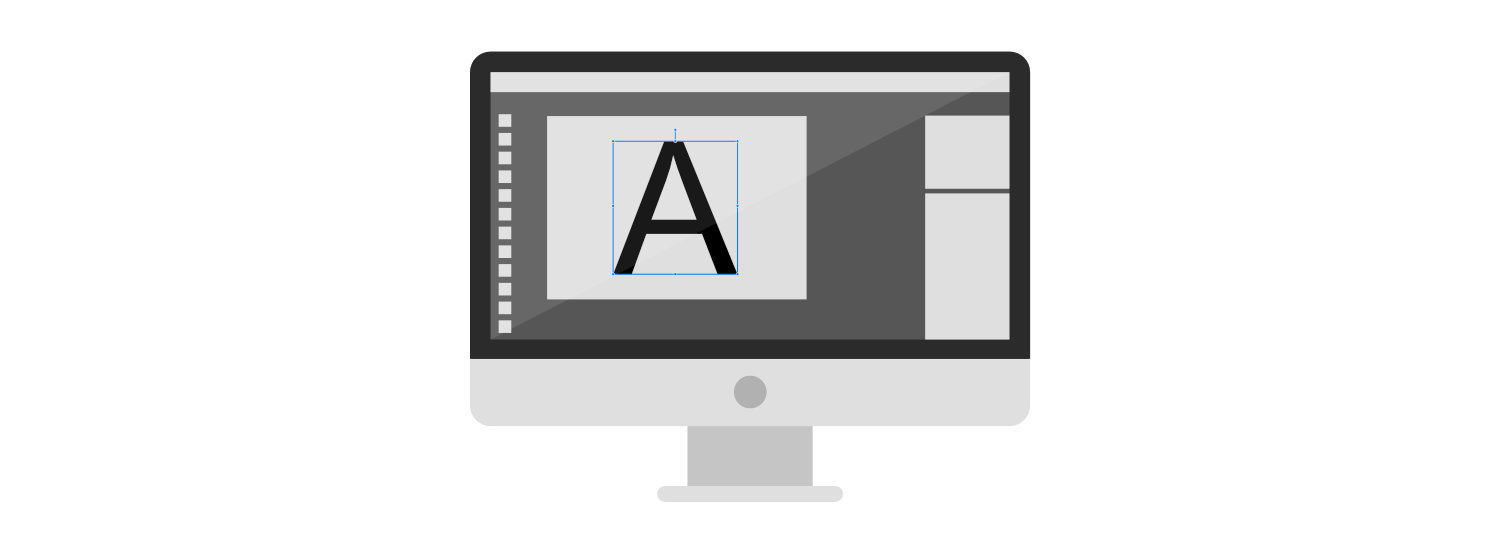
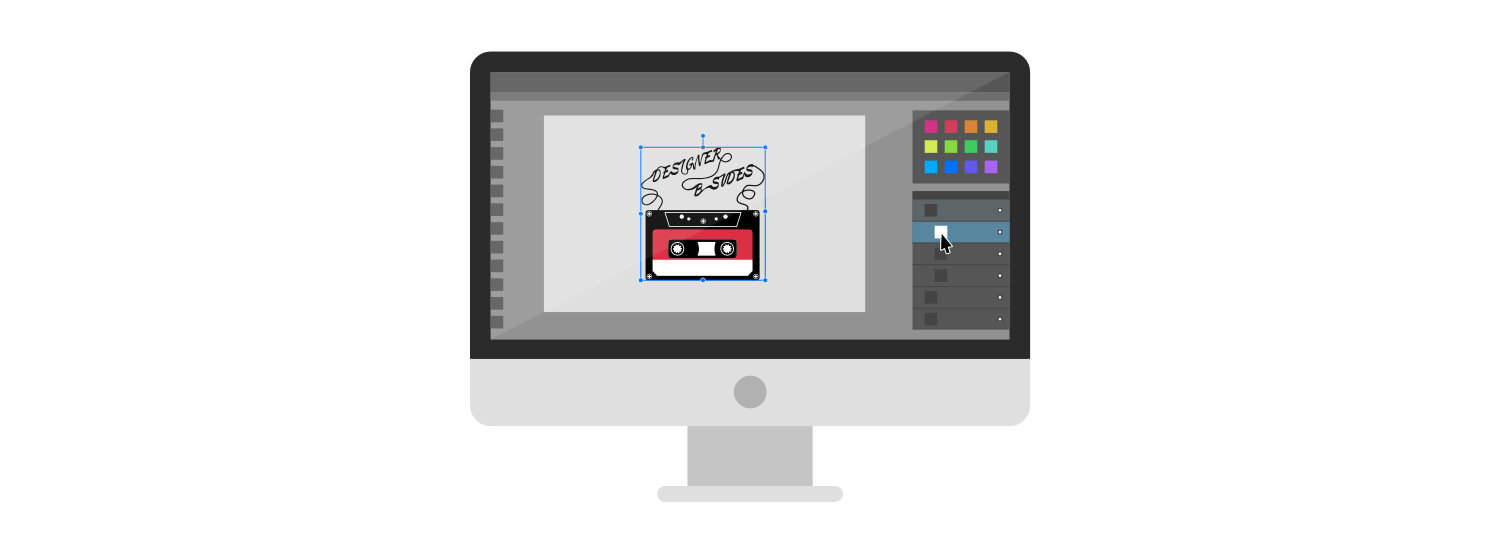
bsides edits

Changed region(s): [[0.3067, 0.123, 0.6747, 0.6148]]

diff --git a/bsides.html b/bsides.html
@@ -76,11 +76,11 @@
 
               <p><b>Projects:</b> Various one-off designs <br> <b>Role:</b> Graphic Design <br> <b>Tools</b>: Pencil & Paper, Photoshop, Affinity Designer</p>
 
-              <img src="images/matt_images/Design/placeholder.jpg" class= "center bside" alt="Coming Soon" width="auto">
+              <img src="images/matt_images/Design/placeholder.jpg" class= "center bside" alt="Designer B-Sides" width="auto">
 
-              <br><p>In addition to the more comprehensive case studies on the design page, I wanted to showcase a “design shorts” section. This eclectic section of self-guided projects ranges from advertising to product and publication design. Check out the examples below for bite sized design Hors d'oeuvres. When you’re ready for the main course give me a call.</p>
+              <br><p>In addition to the more comprehensive case studies on the design page, I wanted to showcase a “Designer B-Sides” section. This eclectic section of self-guided projects ranges from advertising to product and publication design. Check out the examples below for bite sized design Hors d'oeuvres. When you’re ready for the main course give me a call.</p><br>
 
-              <img src="images/matt_images/Design/sleep.jpg" class= "center bside" alt="Sleep Poster" width="auto">
+              <img src="images/matt_images/Design/sleep.jpg" class= "center bside2" alt="Sleep Poster" width="auto">
 
               <br><p>This design is the result of a challenge asking for a public health poster containing the slogan, "Sleep: It's what you need." The brief required that the execution be in a style that is the antithesis of my usual artistic sensibility. Since my go to style typically leverages hand illustrated elements, in this case I opted to use photography and a clean bold type treatment.</p>
 

diff --git a/assets/css/main.css b/assets/css/main.css
@@ -175,6 +175,11 @@
 		margin-left: 5%;
 	}
 
+	.bside2 {
+		width: 85%;
+		margin-left: 7.5%;
+	}
+
 
 	@media screen and (min-width: 961px) and (max-width: 1880px) {
 
